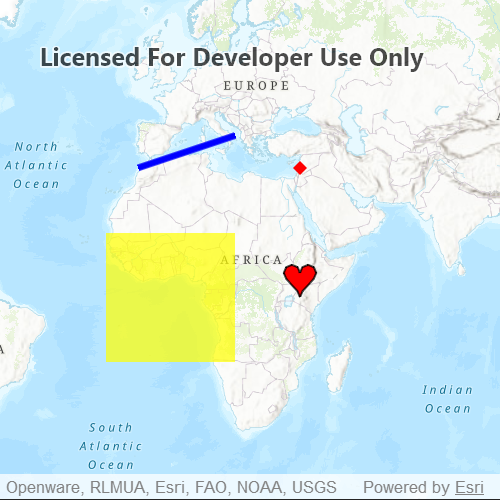
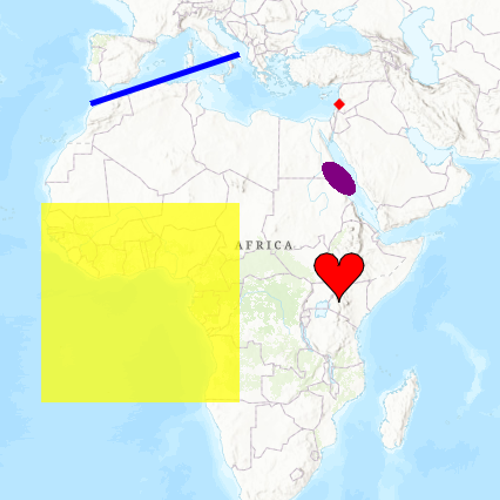
Tanneryould/graphics renderer ellipse (#1363)
* Add C++ update

* Add ellipse and refactor code

* Update screenshot

* update metadata and README files

* Remove duplicate graphics overlay

diff --git a/ArcGISRuntimeSDKQt_QMLSamples/DisplayInformation/AddGraphicsWithRenderer/AddGraphicsWithRenderer.qml b/ArcGISRuntimeSDKQt_QMLSamples/DisplayInformation/AddGraphicsWithRenderer/AddGraphicsWithRenderer.qml
@@ -41,124 +41,129 @@ Rectangle {
         }
 
         GraphicsOverlay {
-            id: pointGraphicsOverlay
-            // assign a render to the graphics overlay
-            renderer: SimpleRenderer {
-                symbol: pointSymbol
+            id: graphicsOverlay
+        }
+
+        Graphic {
+            id: pointGraphic
+
+            // A point graphic's geometry can be defined declaratively
+            geometry: Point {
+                x: 40e5
+                y: 40e5
+                spatialReference: SpatialReference {
+                    wkid: 102100
+                }
             }
 
-            Graphic {
-                geometry: Point {
-                    x: 40e5
-                    y: 40e5
-                    spatialReference: SpatialReference {
-                        wkid: 102100
-                    }
+            symbol: SimpleMarkerSymbol {
+                style: Enums.SimpleMarkerSymbolStyleDiamond
+                color: "red"
+                size: 10
+            }
+        }
+
+        Graphic {
+            id: lineGraphic
+            symbol: SimpleLineSymbol {
+                style: Enums.SimpleLineSymbolStyleSolid
+                color: "blue"
+                width: 5
+                antiAlias: true
+            }
+        }
+
+        Graphic {
+            id: polygonGraphic
+            symbol: SimpleFillSymbol {
+                style: Enums.SimpleFillSymbolStyleSolid
+                color: Qt.rgba(1, 1, 0, 0.7)
+            }
+        }
+
+        Graphic {
+            id: ellipseGraphic
+            symbol: SimpleFillSymbol {
+                style: Enums.SimpleFillSymbolStyleSolid
+                color: "purple"
+            }
+        }
+
+        Graphic {
+            id: heartGraphic
+            symbol: SimpleFillSymbol {
+                style: Enums.SimpleFillSymbolStyleSolid
+                color: "red"
+                outline: SimpleLineSymbol {
+                    style: Enums.SimpleLineSymbolStyleSolid
+                    color: "black"
+                    width: 1
                 }
             }
         }
 
-        // graphics overlay for the line symbol
-        GraphicsOverlay {
-            id: lineGraphicsOverlay
-
-            renderer: SimpleRenderer {
-                symbol: lineSymbol
+        // Used to construct the line graphic geometry
+        PolylineBuilder {
+            id: polylineBuilder
+            spatialReference: SpatialReference {
+                wkid: 102100
             }
         }
 
-        // polygon graphics overlay
-        GraphicsOverlay {
-            id: polygonGraphicsOverlay
-
-            // default property: renderer
-            SimpleRenderer {
-                symbol: fillSymbol
+        // Used to construct the polygon graphic geometry
+        PolygonBuilder {
+            id: polygonBuilder
+            spatialReference: SpatialReference {
+                wkid: 102100
             }
         }
 
-        // graphics overlay to display the heart graphic
-        GraphicsOverlay {
-            id: heartGraphicsOverlay
-
-            renderer: SimpleRenderer {
-                symbol: SimpleFillSymbol {
-                    style: Enums.SimpleFillSymbolStyleSolid
-                    color: "red"
-                    outline: SimpleLineSymbol {
-                        style: Enums.SimpleLineSymbolStyleSolid
-                        color: "black"
-                        width: 1
-                    }
-                }
+        // Used to define the ellipse geometry
+        GeodesicEllipseParameters {
+            id: geodesicEllipseParameters
+            center: Point {
+                x: 40e5
+                y: 25e5
+                spatialReference: Factory.SpatialReference.createWebMercator();
             }
+            geometryType: Enums.GeometryTypePolygon
+            semiAxis1Length: 200
+            semiAxis2Length: 400
+            axisDirection: -45
+            maxPointCount: 100
+            angularUnit: AngularUnit {
+                angularUnitId: Enums.AngularUnitIdDegrees
+            }
+            linearUnit: LinearUnit {
+                linearUnitId: Enums.LinearUnitIdKilometers
+            }
+            maxSegmentLength: 20
         }
-    }
-
-    // the symbology for the point graphic
-    SimpleMarkerSymbol {
-        id: pointSymbol
-        style: Enums.SimpleMarkerSymbolStyleDiamond
-        color: "red"
-        size: 10
-    }
-
-    // line symbol for the line graphic
-    SimpleLineSymbol {
-        id: lineSymbol
-        style: Enums.SimpleLineSymbolStyleSolid
-        color: "blue"
-        width: 5
-        antiAlias: true
-    }
-
-    // the line graphic
-    Graphic {
-        id: lineGraphic
-    }
-
-    // for the line graphic
-    PolylineBuilder {
-        id: polylineBuilder
-        spatialReference: SpatialReference {
-            wkid: 102100
-        }
-    }
-
-    // symbology for the polygon graphic overlay's renderer
-    SimpleFillSymbol {
-        id: fillSymbol
-        style: Enums.SimpleFillSymbolStyleSolid
-        color: Qt.rgba(1, 1, 0, 0.7)
-    }
-
-    // the graphic for the polygon graphics overlay
-    Graphic {
-        id: polygonGraphic
-    }
-
-    // geometry for the polygon graphic
-    PolygonBuilder {
-        id: polygonBuilder
-        spatialReference: SpatialReference {
-            wkid: 102100
-        }
-    }
-
-    // The heart graphic to append the heart geometry to
-    Graphic {
-        id: heartGraphic
     }
 
     Component.onCompleted: {
+        addPointGraphic();
+        addLineGraphic();
+        addPolygonGraphic();
+        addHeartGraphic();
+        addEllipseGraphic();
+    }
+
+    function addPointGraphic() {
+        graphicsOverlay.graphics.append(pointGraphic);
+    }
+
+    function addLineGraphic() {
         // create the line by assigning points
         polylineBuilder.addPointXY(-10e5, 40e5);
         polylineBuilder.addPointXY(20e5, 50e5);
         // assign the graphics geometry to the line
         lineGraphic.geometry = polylineBuilder.geometry;
         // add the graphic to the polyline graphic overlay
-        lineGraphicsOverlay.graphics.append(lineGraphic);
+        graphicsOverlay.graphics.append(lineGraphic);
+    }
 
+    function addPolygonGraphic() {
         // create the polygon by assigning points
         polygonBuilder.addPointXY(-20e5, 20e5);
         polygonBuilder.addPointXY(20e5, 20e5);
@@ -167,11 +172,18 @@ Rectangle {
         // assign the geometry of the graphic to be the polygon
         polygonGraphic.geometry = polygonBuilder.geometry;
         // add the graphic to the polygon graphics overlay
-        polygonGraphicsOverlay.graphics.append(polygonGraphic);
+        graphicsOverlay.graphics.append(polygonGraphic);
+    }
 
-        // Create the heart graphic with curved line segments
+    function addEllipseGraphic() {
+        // Create Ellipse
+        ellipseGraphic.geometry = GeometryEngine.ellipseGeodesic(geodesicEllipseParameters);
+        graphicsOverlay.graphics.append(ellipseGraphic);
+    }
+
+    function addHeartGraphic() {
         heartGraphic.geometry = createHeartGeometry(40e5, 5e5, 10e5, Factory.SpatialReference.createWebMercator());
-        heartGraphicsOverlay.graphics.append(heartGraphic);
+        graphicsOverlay.graphics.append(heartGraphic);
     }
 
     function createHeartGeometry(centerX, centerY, sideLength, sr) {

diff --git a/ArcGISRuntimeSDKQt_CppSamples/DisplayInformation/AddGraphicsWithRenderer/AddGraphicsWithRenderer.cpp b/ArcGISRuntimeSDKQt_CppSamples/DisplayInformation/AddGraphicsWithRenderer/AddGraphicsWithRenderer.cpp
@@ -22,6 +22,8 @@
 
 #include "CubicBezierSegment.h"
 #include "EllipticArcSegment.h"
+#include "GeodesicEllipseParameters.h"
+#include "GeometryEngine.h"
 #include "Map.h"
 #include "MapQuickView.h"
 #include "PolygonBuilder.h"
@@ -70,6 +72,8 @@ void AddGraphicsWithRenderer::addGraphicsOverlays()
   addPolygonGraphic();
 
   addCurveGraphic();
+
+  addEllipseGraphic();
 }
 
 void AddGraphicsWithRenderer::addPointGraphic()
@@ -121,6 +125,26 @@ void AddGraphicsWithRenderer::addCurveGraphic()
   SimpleFillSymbol* curveFillSymbol = new SimpleFillSymbol(SimpleFillSymbolStyle::Solid, QColor("red"), curveLineSymbol, this);
 
   createGraphicsOverlayWithGraphicAndSymbol(curveGraphic, curveFillSymbol);
+}
+
+void AddGraphicsWithRenderer::addEllipseGraphic()
+{
+  GeodesicEllipseParameters parameters = GeodesicEllipseParameters();
+  parameters.setCenter(Point(40e5, 25e5, SpatialReference::webMercator()));
+  parameters.setGeometryType(GeometryType::Polygon);
+  parameters.setSemiAxis1Length(200);
+  parameters.setSemiAxis2Length(400);
+  parameters.setAxisDirection(-45);
+  parameters.setMaxPointCount(100);
+  parameters.setAngularUnit(AngularUnit(AngularUnitId::Degrees));
+  parameters.setLinearUnit(LinearUnit(LinearUnitId::Kilometers));
+  parameters.setMaxSegmentLength(20);
+
+  const Polygon ellipsePolygon = GeometryEngine::ellipseGeodesic(parameters);
+
+  SimpleFillSymbol* ellipseSymbol = new SimpleFillSymbol(SimpleFillSymbolStyle::Solid, QColor(125, 0, 125), this);
+
+  createGraphicsOverlayWithGraphicAndSymbol(new Graphic(ellipsePolygon, this), ellipseSymbol);
 }
 
 void AddGraphicsWithRenderer::createGraphicsOverlayWithGraphicAndSymbol(Graphic* graphic, Symbol* symbol)

diff --git a/ArcGISRuntimeSDKQt_CppSamples/DisplayInformation/AddGraphicsWithRenderer/AddGraphicsWithRenderer.h b/ArcGISRuntimeSDKQt_CppSamples/DisplayInformation/AddGraphicsWithRenderer/AddGraphicsWithRenderer.h
@@ -48,6 +48,7 @@ private:
   void addLineGraphic();
   void addPolygonGraphic();
   void addCurveGraphic();
+  void addEllipseGraphic();
   void createGraphicsOverlayWithGraphicAndSymbol(Esri::ArcGISRuntime::Graphic* graphic, Esri::ArcGISRuntime::Symbol* symbol);
   Esri::ArcGISRuntime::Geometry createHeart();
 

diff --git a/ArcGISRuntimeSDKQt_QMLSamples/DisplayInformation/AddGraphicsWithRenderer/README.md b/ArcGISRuntimeSDKQt_QMLSamples/DisplayInformation/AddGraphicsWithRenderer/README.md
@@ -25,7 +25,9 @@ Pan and zoom on the map to view graphics for points, lines, and polygons (includ
 
 * CubicBezierSegment
 * EllipticArcSegment
+* GeodesicEllipseParameters
 * Geometry
+* GeometryEngine
 * Graphic
 * GraphicsOverlay
 * PolygonBuilder
@@ -41,7 +43,4 @@ To set unique symbols across a number of graphics (e.g. showing graphics of indi
 
 ## Tags
 
-arc, bezier, curve, display, graphics, marker, overlay, renderer, segment, symbol, true curve
-
-
-
+arc, bezier, curve, display, ellipse, graphics, marker, overlay, renderer, segment, symbol, true curve

diff --git a/ArcGISRuntimeSDKQt_CppSamples/DisplayInformation/AddGraphicsWithRenderer/README.md b/ArcGISRuntimeSDKQt_CppSamples/DisplayInformation/AddGraphicsWithRenderer/README.md
@@ -25,7 +25,9 @@ Pan and zoom on the map to view graphics for points, lines, and polygons (includ
 
 * CubicBezierSegment
 * EllipticArcSegment
+* GeodesicEllipseParameters
 * Geometry
+* GeometryEngine
 * Graphic
 * GraphicsOverlay
 * PolygonBuilder
@@ -41,4 +43,4 @@ To set unique symbols across a number of graphics (e.g. showing graphics of indi
 
 ## Tags
 
-arc, bezier, curve, display, graphics, marker, overlay, renderer, segment, symbol, true curve
+arc, bezier, curve, display, ellipse, graphics, marker, overlay, renderer, segment, symbol, true curve
